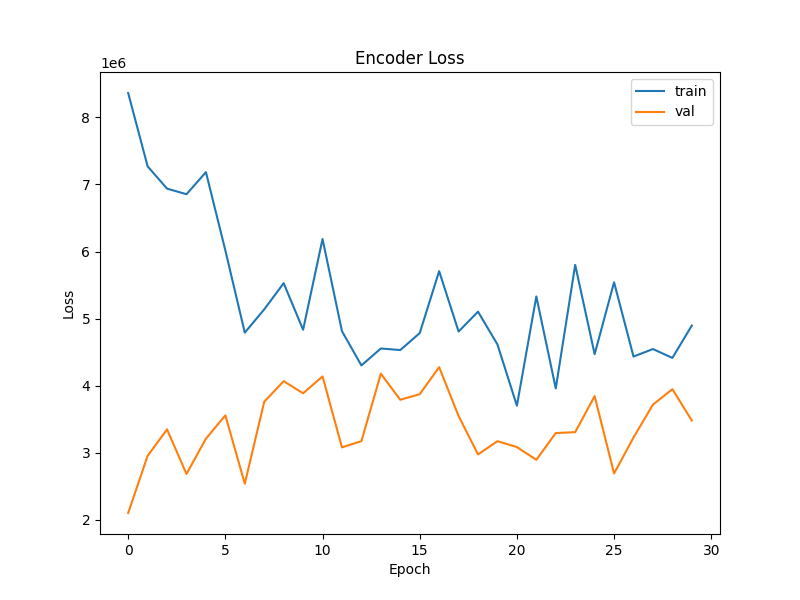
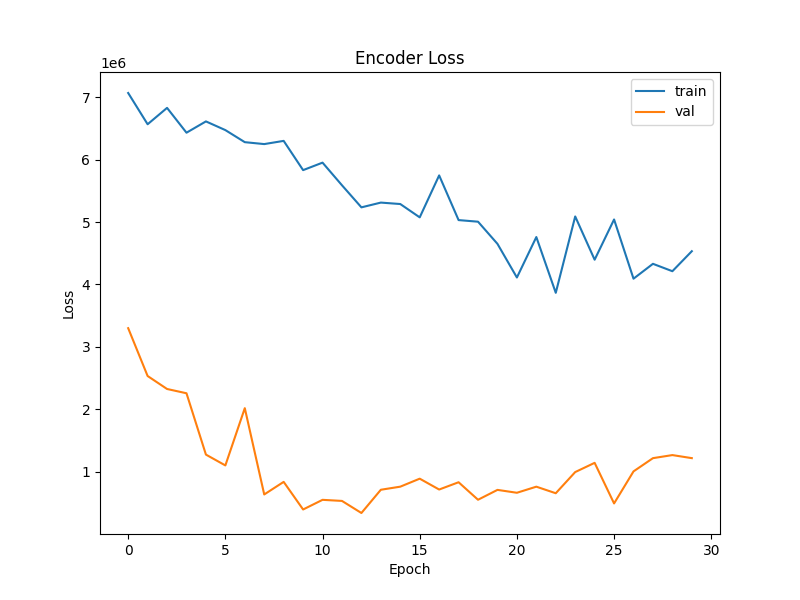
Finish 5sp 0..5

diff --git a/train.py b/train.py
@@ -169,13 +169,13 @@ if __name__ == "__main__":
     batch_sz = 46 # Gets overridden later for specific data_type
     window_size = 3000
     stride = window_size // 4 # 75% overlap
-    n_spikes_per_timestep = 10
+    n_spikes_per_timestep = 5
     num_steps = 15 # Recurrent steps for the SRNN
     encoder_epochs = 30
     classifier_epochs = 25
     theta = 0.99 # Threshold parameter for making spiketrains (semi-binary floats to actual ints)
-    l1_sz = 3000 # Size of the first layer in the STL encoder
-    l2_sz = 3000 # Size of the second layer in the STL encoder
+    l1_sz = 0#3000 # Size of the first layer in the STL encoder
+    l2_sz = 0#3000 # Size of the second layer in the STL encoder
     l1_cls = 1000 # Size of the layer in the classifier
     l2_cls = 0 # Set to 0 to ignore
     drop_p = 0.5 # Dropout setting
@@ -202,10 +202,12 @@ if __name__ == "__main__":
         # Batch size findings from search
         if data_type == "emg":
             batch_sz = 32
-        elif data_type == "energy":
+        if data_type == "energy":
             batch_sz = 8
-        elif data_type == "angle":
+        if data_type == "angle":
             batch_sz = 16
+        # if n_spikes_per_timestep == 10:
+        #     batch_sz = 1
         
         config = {
             "data_type": data_type,

diff --git a/utils/helpers.py b/utils/helpers.py
@@ -269,11 +269,11 @@ def train_SRNN_classifier_nowindow(batch_sz, data_type, num_steps, encoder, l1_c
         if epoch_val_loss < lowest_cls_val_loss:
             lowest_cls_val_loss = epoch_val_loss
             best_classifier = classifier.state_dict()
-            torch.save(best_classifier, f"results/{folder}/best_classifier_{data_type}{suff}.pth")
+            # torch.save(best_classifier, f"results/{folder}/best_classifier_{data_type}{suff}.pth")
     
     save_cls_loss_plot(cls_loss, cls_loss_val, folder, suff, data_type, fold_num)
     
-    classifier.load_state_dict(torch.load(f"results/{folder}/best_classifier_{data_type}{suff}.pth"))
+    classifier.load_state_dict(best_classifier)
     classifier.eval()
     
     # Remove cuda variables
